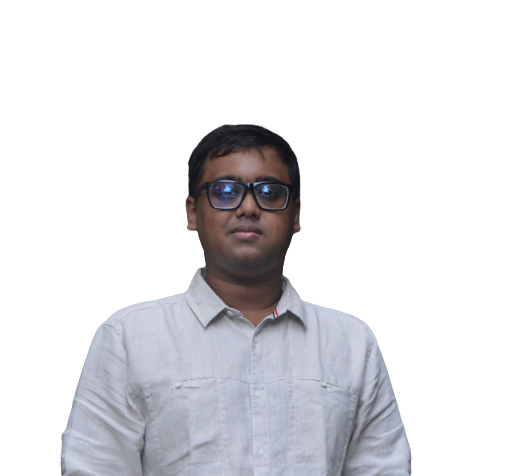
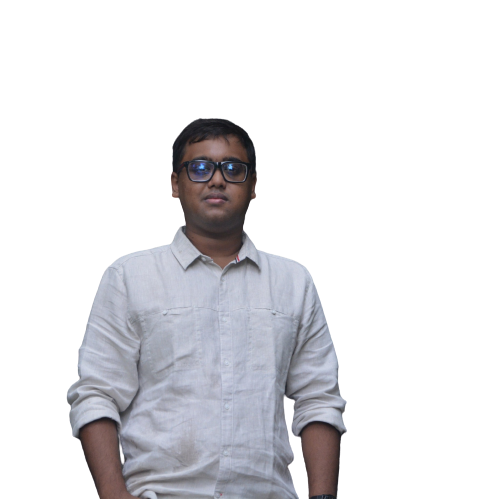
Website

Changed region(s): [[0.09, 0.2353, 0.81, 1.0], [0.42, 0.7353, 0.45, 0.7941]]

diff --git a/index.html b/index.html
@@ -102,7 +102,7 @@
                                     129.362C2.45775 97.8511 -7.48481 59.1033 6.67581 34.5279C20.9871 10.1032 59.7028 
                                     -0.149132 97.9666 0.00163737C136.23 0.303176 174.193 10.857 190.312 36.4879Z"/>
 
-                                    <image class="home__blob-img" x='20' y='32' xlink:href="assets/img/tahsin.png"/>
+                                    <image class="home__blob-img" x='28' y='16' xlink:href="assets/img/tahsin.png"/>
                                 </g>
                             </svg>
                         </div>
@@ -843,31 +843,31 @@
                             </div>
                         </div>
                     </div>
-                    <form action="" class="contact__form grid">
+                    <form id="contact-form" method="post" action="assets/php/form.php" class="contact__form grid">
                         <div class="contact__inputs grid">
                             <div class="contact__content">
-                                <label for="" class="contact__label">Name</label>
-                                <input type="text" class="contact__input">
+                                <label for="Name" class="contact__label">Name</label>
+                                <input name="name" type="text" class="contact__input" id="Name">
                             </div>
                             <div class="contact__content">
-                                <label for="" class="contact__label">Email</label>
-                                <input type="email" class="contact__input">
+                                <label for="Email" class="contact__label">Email</label>
+                                <input name="email" type="email" class="contact__input" id="Email">
                             </div>
                         </div>
                         <div class="contact__content">
-                            <label for="" class="contact__label">Description</label>
-                            <input type="text" class="contact__input">
+                            <label for="Message" class="contact__label">Description</label>
+                            <input name="" type="text" class="contact__input">
                         </div>
                         <div class="contact__content">
-                            <label for="" class="contact__label">Message</label>
-                            <textarea name="" id="" cols="0" rows="7" class="contact__input"></textarea>
+                            <label for="" class="contact__label" id="Message">Message</label>
+                            <textarea name="message" id="" cols="0" rows="7" class="contact__input"></textarea>
                         </div>
 
                         <div>
-                            <a href="#" class="button button--flex">
+                            <input type="submit" class="button button--flex">
                                 Send Message
                                 <i class="uil uil-message button__icon"></i>
-                            </a>
+                        </input>
                         </div>
                     </form>
                 </div>

diff --git a/assets/php/form.php b/assets/php/form.php
@@ -1,0 +1,25 @@
+<?php
+$name - $_POST['name'];
+$visitor_email = $_POST['email'];
+$message = $_POST['message'];
+
+$email_from = 'tahsin148@outlook.com';
+
+$email_subject = "New Form Submission";
+
+$email_body = "User Name: $name.\n".
+                "User Email: $visitor_email.\n".
+                    "User Message: $message.\n";
+
+
+$to = "kshifat97@gmail.com";
+
+$headers = "from: $email_from \r\n";
+
+$headers .= "Reply-To: $visitor_email \r\n";
+
+mail($to,$email_subject,$email_body,$headers);
+
+header("Location: index.html");
+
+?>
